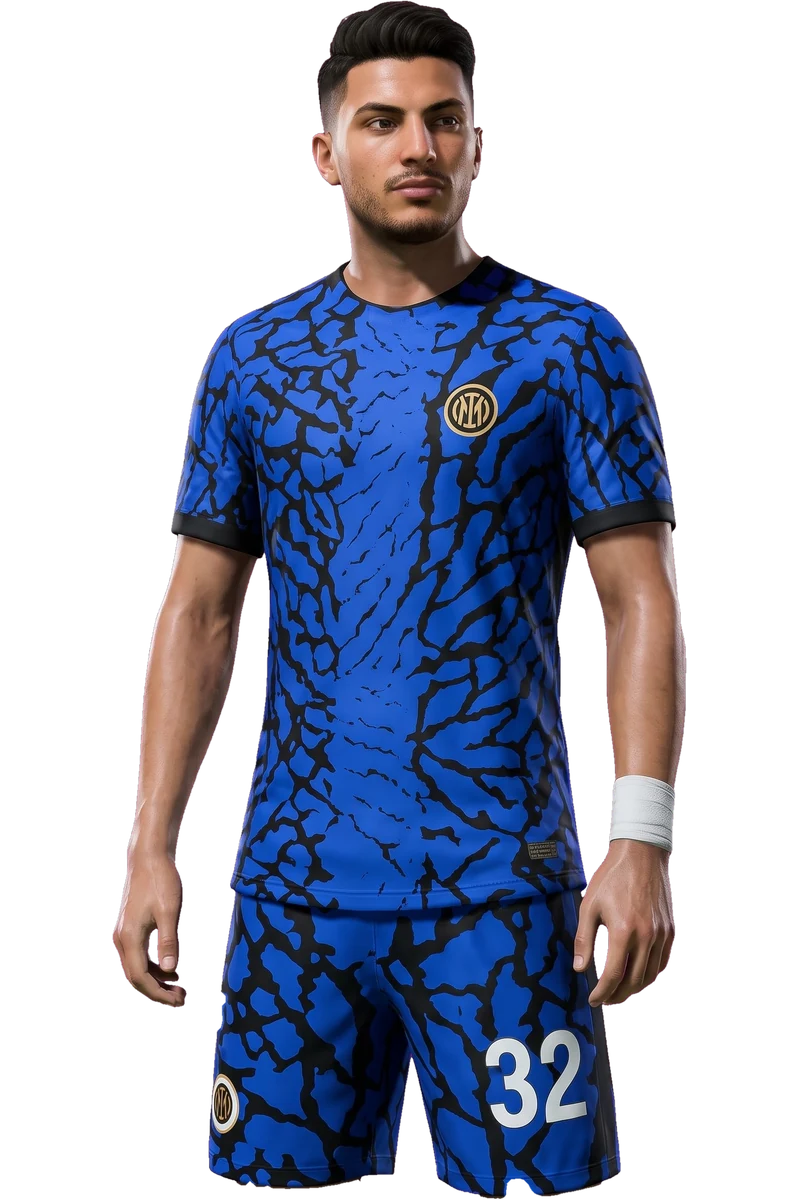
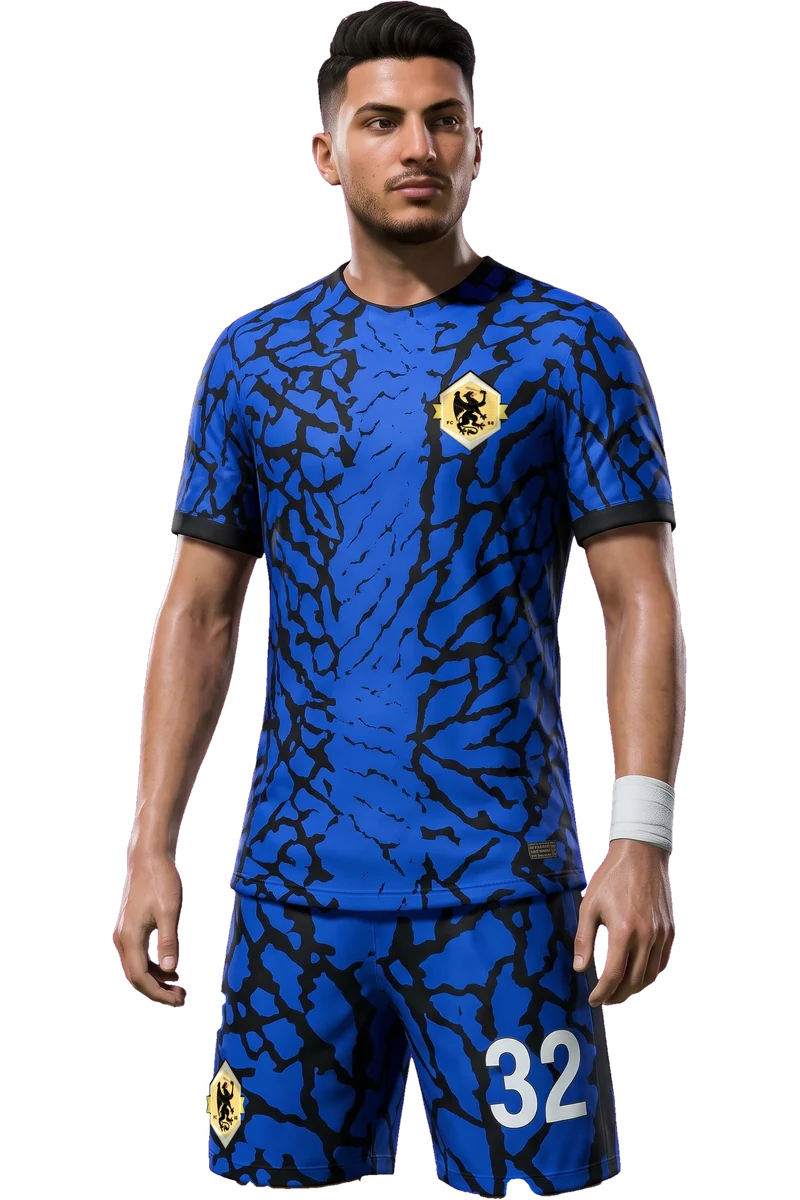
Put the Wacky Wombats crest on Banks's and Lamin's kits
Their renders carried the Inter Milan badge on the shirt and shorts. Each
badge is covered with the club crest, sized to the badge on both axes so
the side-on shorts badges stay foreshortened, and lit to match the fabric.

Claude-Session: https://claude.ai/code/session_01HMFviz661wWaPA8HnUs72b

Changed region(s): [[0.5312, 0.3083, 0.6562, 0.37], [0.25, 0.8942, 0.3125, 0.9558]]

diff --git a/index.html b/index.html
@@ -72,7 +72,7 @@
 
             <article class="squad-card banks-player" data-player="Banks" role="button" tabindex="0" aria-haspopup="dialog" aria-label="Open Robin Banks's player dossier">
               <div class="squad-card-art">
-                <img src="assets/robin-banks-signing.webp?v=2" alt="Robin Banks standing in the Wacky Wombats kit" />
+                <img src="assets/robin-banks-signing.webp?v=3" alt="Robin Banks standing in the Wacky Wombats kit" />
               </div>
               <div class="squad-card-body">
                 <div class="player-status"><span>NEW IDENTITY · FOUNDING SIGNING</span><i>CONFIRMED</i></div>
@@ -90,7 +90,7 @@
 
             <article class="squad-card returning-player" data-player="Lamin" role="button" tabindex="0" aria-haspopup="dialog" aria-label="Open Lamin Jawara's player dossier">
               <div class="squad-card-art">
-                <img src="assets/lamin-jawara-wombats.webp?v=2" alt="Lamin Jawara standing confidently in the Wacky Wombats kit" />
+                <img src="assets/lamin-jawara-wombats.webp?v=3" alt="Lamin Jawara standing confidently in the Wacky Wombats kit" />
               </div>
               <div class="squad-card-body">
                 <div class="player-status"><span>FREE TRANSFER · FROM BASKET CARRIERS</span><i>CONFIRMED</i></div>
@@ -471,6 +471,6 @@
       </div>
     </dialog>
 
-    <script src="app.js?v=23" defer></script>
+    <script src="app.js?v=24" defer></script>
   </body>
 </html>

diff --git a/app.js b/app.js
@@ -12,8 +12,8 @@ const LEGACY_ARCHIVE = "data/archive/basket-carriers-fc27.json";
 // Everyone starts from zero at Wacky Wombats, so no season offsets apply.
 const PLAYER_META = {
   Magician: { name: "LITTLE MAGICIAN", number: "88", image: "assets/little-magician-signing.webp?v=2", position: "CM / CAM" },
-  Banks: { name: "ROBIN BANKS", number: "32", image: "assets/robin-banks-signing.webp?v=2", position: "ST" },
-  Lamin: { name: "LAMIN JAWARA", number: "47", image: "assets/lamin-jawara-wombats.webp?v=2", position: "CM / CDM" },
+  Banks: { name: "ROBIN BANKS", number: "32", image: "assets/robin-banks-signing.webp?v=3", position: "ST" },
+  Lamin: { name: "LAMIN JAWARA", number: "47", image: "assets/lamin-jawara-wombats.webp?v=3", position: "CM / CDM" },
 };
 
 const PLAYER_ORDER = ["Magician", "Banks", "Lamin"];
